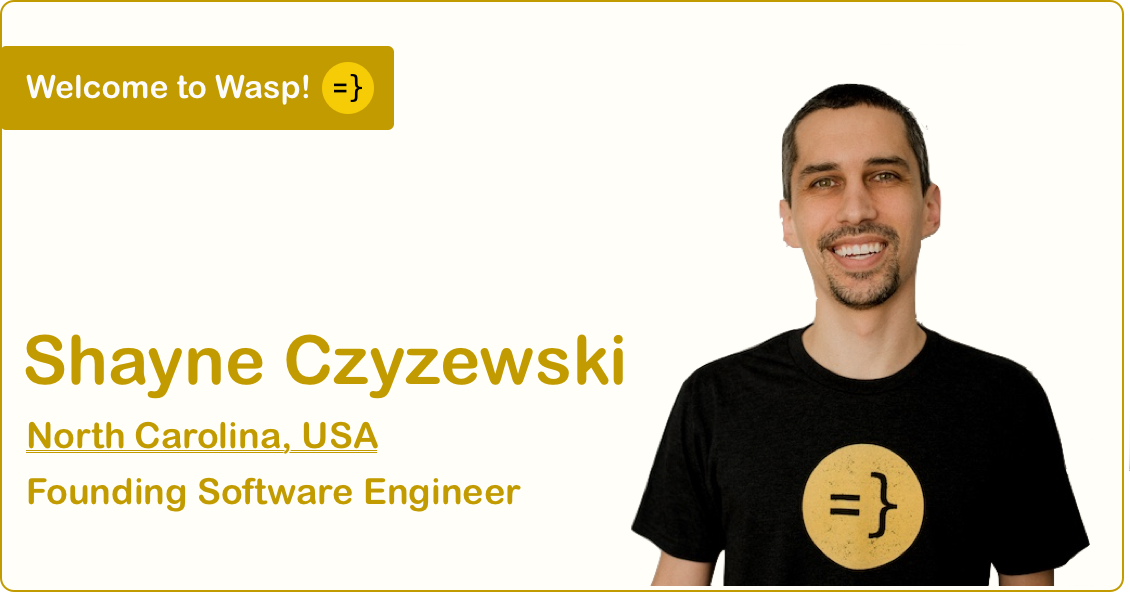
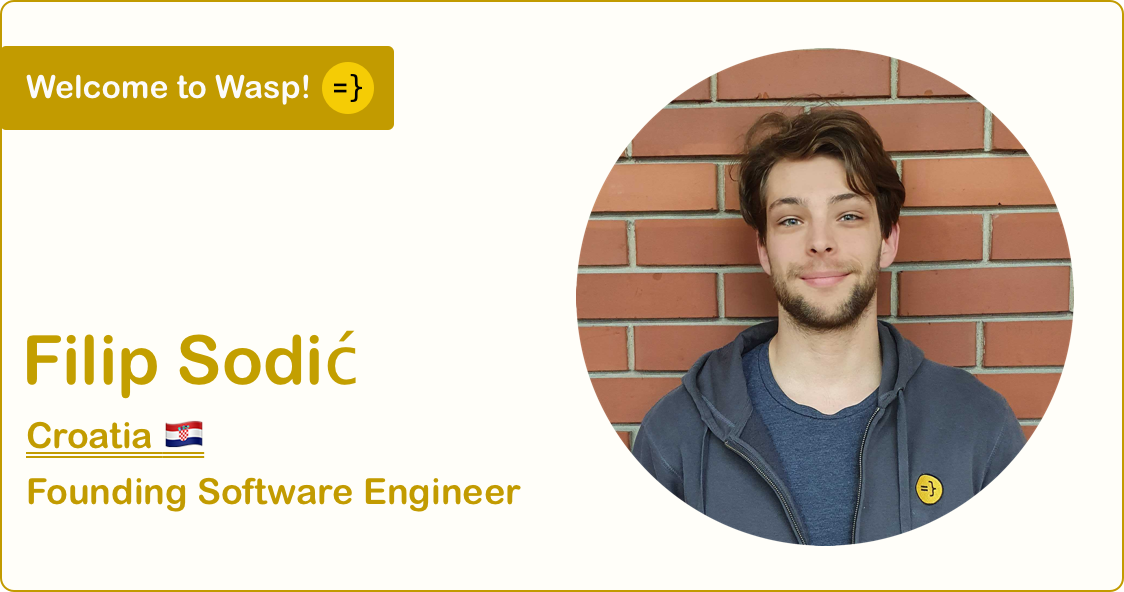
finalized filip intro post - added intro + rm martijn post.

diff --git a/web/blog/2022-05-31-filip-intro.md b/web/blog/2022-05-31-filip-intro.md
@@ -1,7 +1,7 @@
 ---
 title: Meet the team - Filip Sodić, Founding Engineer
 authors: [matijasos]
-image: /img/shayne-intro-banner.png
+image: /img/filip-intro-banner.png
 tags: [wasp, new-hire]
 ---
 
@@ -10,7 +10,7 @@ import useBaseUrl from '@docusaurus/useBaseUrl';
 import InBlogCta from './components/InBlogCta';
 import WaspIntro from './_wasp-intro.md';
 
-![Welcome Filip!](../static/img/shayne-intro-banner.png)
+![Welcome Filip!](../static/img/filip-intro-banner.png)
 
 Find Filip on [GitHub](https://github.com/sodic).
 
@@ -18,6 +18,8 @@ Find Filip on [GitHub](https://github.com/sodic).
 
 <WaspIntro />
 <InBlogCta />
+
+**We are immensely excited to welcome Filip, our latest Founding Software Engineer!** Filip is an experienced engineer and a passionate computer scientist - his two biggest passions are building compilers/designing programming languages and web development (what a lucky coincidence, right? ;)). Before joining Wasp, Filip earned his stripes in various domains, ranging from bioinformatics and the betting industry to route optimisation software. Welcome to the team, Filip - we can't wait to see what you build!
 
 #### Let’s start with two truths and a lie about yourself.
 
@@ -75,7 +77,7 @@ always looked interesting and exotic. I did get a few chances to use
 the language through university courses and on my own, but I've never really had an excuse to
 use it in my day-to-day.
 
-## What are you most excited about in Wasp?
+#### What are you most excited about in Wasp?
 
 From a developer’s perspective, I’m definitely most excited about designing the
 DSL and working on the compiler.
